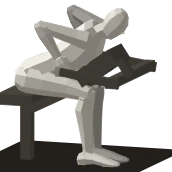
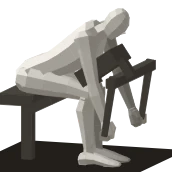
fix(moves): the row's still shows the reach; slimmer lever arms
At 600 px the squeeze still drew the near lever, folded under the pad, across the forearm and
thigh like a plank. The reach shows the chest on the pad and the arms hanging to the levers
with nothing crossing. The arms narrow from 6 to 4 cm in the swing plane.

diff --git a/src/moves/figure.ts b/src/moves/figure.ts
@@ -97,7 +97,7 @@ const handles = (halfWidth: number): Part[] =>
 const leverArms = ({ length }: Lever, halfWidth: number): Part[] =>
   [1, -1].map((side): Part => {
     const s = side * (halfWidth + 9);
-    return { seg: LEVER_FRAME, n: 4, tone: Tone.Box, rings: [[-5, 0, s, 4.2, 2], [length, 0, s, 3.2, 1.8]] };
+    return { seg: LEVER_FRAME, n: 4, tone: Tone.Box, rings: [[-4, 0, s, 3, 1.7], [length, 0, s, 2.3, 1.5]] };
   });
 /**
  * A box as a 4-sided loft along its x axis: a 4-gon ring is the box inscribed in the
